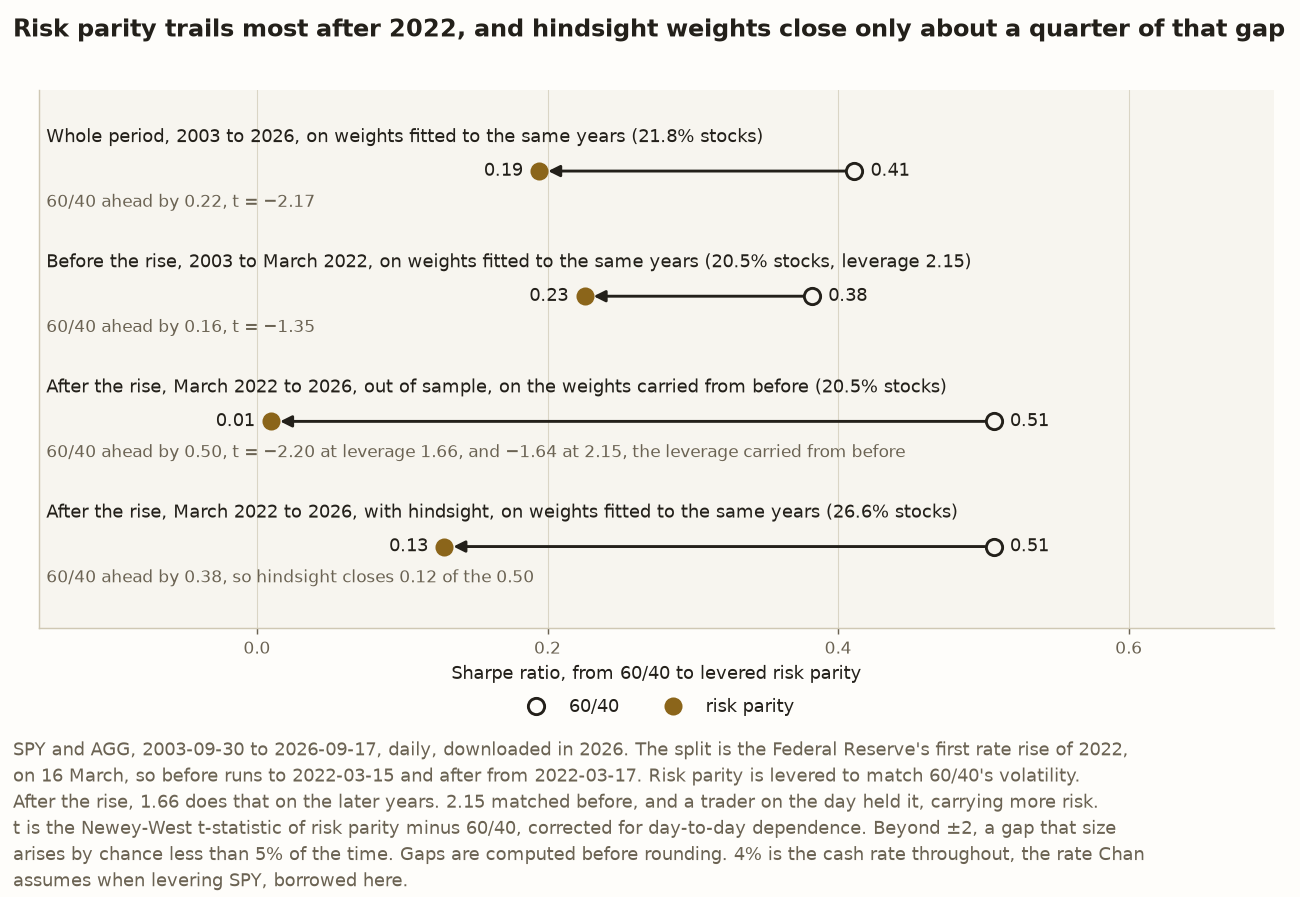
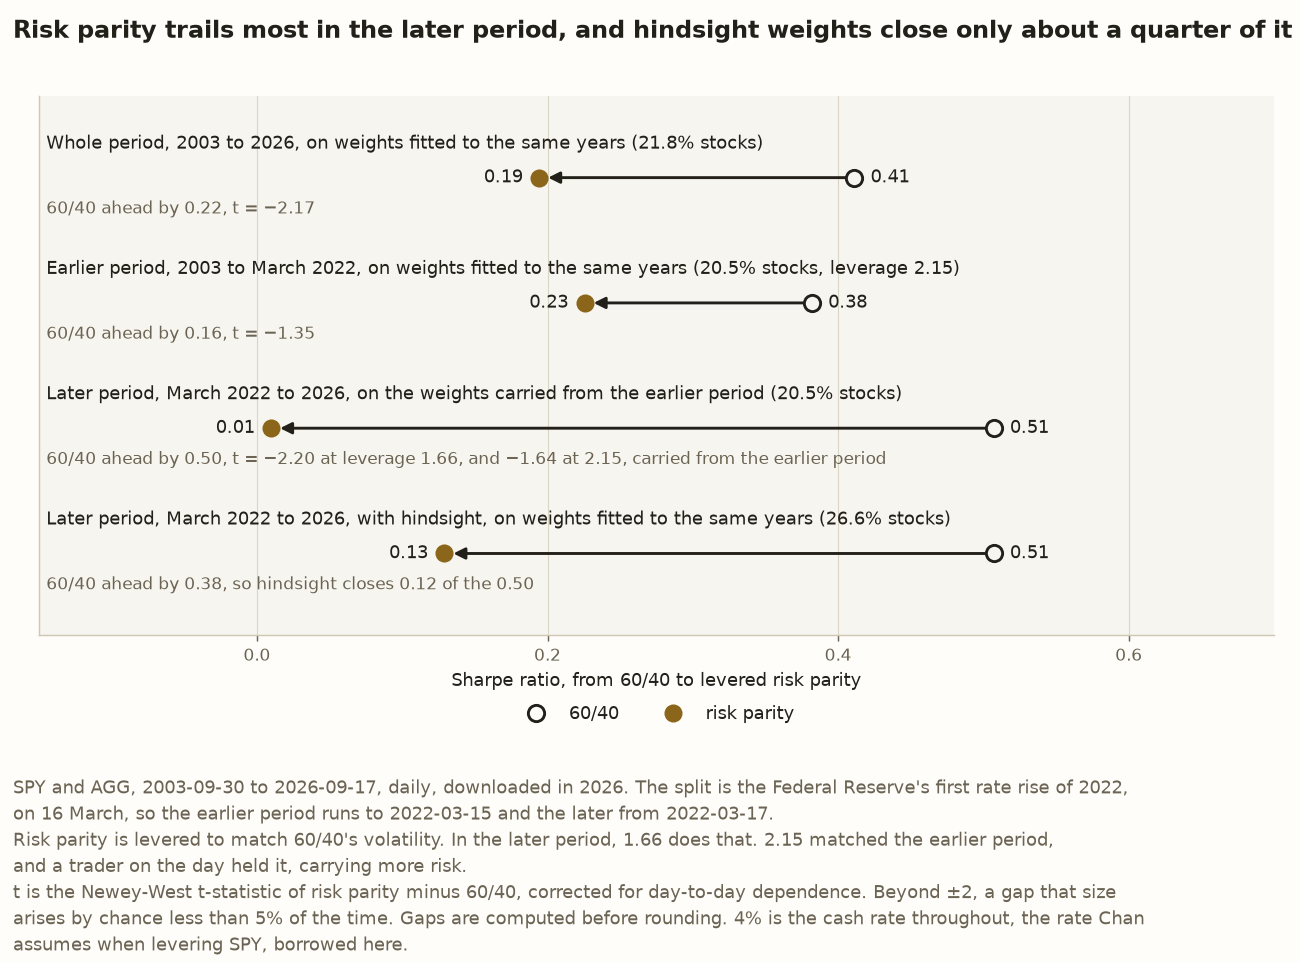
docs(blog): apply round 2 of the post loop
The accuracy review found nothing. The style review and a first-time
read found:

- Lesson 3's new sentence joined two facts with "and" where one causes
  the other, and called the shared term large at a correlation where it
  is zero. It now says why equal own terms make the shared term count
  for most, and names the volatility ratio rather than Qian's weights.
- "Out of sample" was glossed where the house style drops jargon. The
  post and the Lesson 5 figure now say what happens: the later period
  tests weights that never saw its years.
- Lesson 5 now says the one way volatility-only weights can gain from
  seeing the test years, through the stock-bond split, and that the
  tilt can run either way.
- The Lesson 5 figure's rows, title and note now use earlier and later
  period, as the text promises right above it. Lesson 3 points to Lesson
  5 for why the split falls on 16 March.
- Three phrasings still missed the naming convention, and Lesson 6 ended
  on four stacked negatives. Both are fixed, and the -0.96 conclusion
  moves to the paragraph it belongs to.

diff --git a/tests/test_risk_parity_figures.py b/tests/test_risk_parity_figures.py
@@ -1498,8 +1498,8 @@ class TestWhatTheWindowFigureCompares:
         the 0.50, which is 24% and rounds to a quarter."""
         drawn = window_figure.comparison
         assert window_figure._suptitle.get_text() == (
-            "Risk parity trails most after 2022, and hindsight weights close only "
-            "about a quarter of that gap"
+            "Risk parity trails most in the later period, and hindsight weights close only "
+            "about a quarter of it"
         )
         whole, before, carried, hindsight = drawn.rows
         assert carried.gap < hindsight.gap < min(whole.gap, before.gap)
@@ -1549,15 +1549,16 @@ class TestTheWindowPanel:
     def test_the_row_labels_name_the_weights(self, window_figure) -> None:
         assert [row.label for row in window_figure.comparison.rows] == [
             "Whole period, 2003 to 2026, on weights fitted to the same years (21.8% stocks)",
-            "Before the rise, 2003 to March 2022, on weights fitted to the same years "
+            "Earlier period, 2003 to March 2022, on weights fitted to the same years "
             "(20.5% stocks, leverage 2.15)",
-            "After the rise, March 2022 to 2026, out of sample, on the weights carried from "
-            "before (20.5% stocks)",
-            "After the rise, March 2022 to 2026, with hindsight, on weights fitted to the same "
+            "Later period, March 2022 to 2026, on the weights carried from the earlier period "
+            "(20.5% stocks)",
+            "Later period, March 2022 to 2026, with hindsight, on weights fitted to the same "
             "years (26.6% stocks)",
         ]
         # Three rows are fitted to the years they score, and they say so in the
-        # same words. Only the carried row is out of sample.
+        # same words. Only the carried row is scored on weights that never saw
+        # its years, and it says where they came from.
         labels = [row.label for row in window_figure.comparison.rows]
         assert ["fitted to the same years" in label for label in labels] == [
             True,
@@ -1565,7 +1566,12 @@ class TestTheWindowPanel:
             False,
             True,
         ]
-        assert ["out of sample" in label for label in labels] == [False, False, True, False]
+        assert ["carried from the earlier period" in label for label in labels] == [
+            False,
+            False,
+            True,
+            False,
+        ]
 
     def test_each_row_states_its_leader_gap_and_t(self, window_figure) -> None:
         ax = window_figure.axes[0]
@@ -1573,8 +1579,8 @@ class TestTheWindowPanel:
         assert [t.get_text() for t in gaps] == [
             "60/40 ahead by 0.22, t = −2.17",
             "60/40 ahead by 0.16, t = −1.35",
-            "60/40 ahead by 0.50, t = −2.20 at leverage 1.66, and −1.64 at 2.15, the leverage "
-            "carried from before",
+            "60/40 ahead by 0.50, t = −2.20 at leverage 1.66, and −1.64 at 2.15, carried from the "
+            "earlier period",
             "60/40 ahead by 0.38, so hindsight closes 0.12 of the 0.50",
         ]
         for y, text in zip(_rows_top_to_bottom(window_figure), gaps, strict=True):
@@ -1666,10 +1672,10 @@ class TestTheWindowFiguresText:
         assert window_figure.texts[-1].get_text().split("\n") == [
             "SPY and AGG, 2003-09-30 to 2026-09-17, daily, downloaded in 2026. The split is the "
             "Federal Reserve's first rate rise of 2022,",
-            "on 16 March, so before runs to 2022-03-15 and after from 2022-03-17. Risk parity is "
-            "levered to match 60/40's volatility.",
-            "After the rise, 1.66 does that on the later years. 2.15 matched before, and a trader "
-            "on the day held it, carrying more risk.",
+            "on 16 March, so the earlier period runs to 2022-03-15 and the later from 2022-03-17.",
+            "Risk parity is levered to match 60/40's volatility. In the later period, 1.66 does "
+            "that. 2.15 matched the earlier period,",
+            "and a trader on the day held it, carrying more risk.",
             "t is the Newey-West t-statistic of risk parity minus 60/40, corrected for day-to-day "
             "dependence. Beyond ±2, a gap that size",
             "arises by chance less than 5% of the time. Gaps are computed before rounding. 4% is "

diff --git a/src/chan/risk_parity_figures.py b/src/chan/risk_parity_figures.py
@@ -1184,14 +1184,14 @@ def window_comparison(
             rankings["full span"],
         ),
         ranked(
-            "Before the rise, 2003 to March 2022, on weights fitted to the same years "
+            "Earlier period, 2003 to March 2022, on weights fitted to the same years "
             f"({stocks(before.parity.stock_weight)}, leverage {earlier.leverage:.2f})",
             before.parity.stock_weight,
             earlier,
         ),
         ranked(
-            "After the rise, March 2022 to 2026, out of sample, on the weights carried from "
-            f"before ({stocks(carried[0])})",
+            "Later period, March 2022 to 2026, on the weights carried from the earlier period "
+            f"({stocks(carried[0])})",
             carried[0],
             rankings["rising rates"],
             extra=(
@@ -1202,7 +1202,7 @@ def window_comparison(
             ),
         ),
         WindowRow(
-            "After the rise, March 2022 to 2026, with hindsight, on weights fitted to the same "
+            "Later period, March 2022 to 2026, with hindsight, on weights fitted to the same "
             f"years ({stocks(own[0])})",
             own[0],
             refitted.sharpe_benchmark,
@@ -1241,7 +1241,7 @@ def window_row_text(drawn: WindowComparison, row: WindowRow) -> str:
         (own_leverage, own_t), (held, held_t) = row.tests
         text += (
             f", t = {_signed(own_t)} at leverage {own_leverage:.2f}, "
-            f"and {_signed(held_t)} at {held:.2f}, the leverage carried from before"
+            f"and {_signed(held_t)} at {held:.2f}, carried from the earlier period"
         )
     if row is drawn.hindsight:
         text += f", so hindsight closes {drawn.closed:.2f} of the {abs(drawn.carried.gap):.2f}"
@@ -1261,7 +1261,7 @@ def make_window_figure(
     """The Sharpe ratios on each side of March 2022, on carried and on hindsight weights."""
     drawn = window_comparison(measured)
 
-    fig = Figure(figsize=(10, 6.9), dpi=130)
+    fig = Figure(figsize=(10, 7.4), dpi=130)
     fig.patch.set_facecolor(SURFACE)
     ax = fig.subplots()
     _style(ax)
@@ -1326,22 +1326,22 @@ def make_window_figure(
     held_leverage, _ = drawn.carried.tests[1]
     _title(
         fig,
-        "Risk parity trails most after 2022, and hindsight weights close only "
-        f"about {quarter_words(drawn.closed_share)} of that gap",
+        "Risk parity trails most in the later period, and hindsight weights close only "
+        f"about {quarter_words(drawn.closed_share)} of it",
         f"{STOCK} and {BOND}, {drawn.start} to {drawn.end}, daily, downloaded in 2026. The split "
-        "is the Federal Reserve's first rate rise of 2022,\non 16 March, so before runs to "
-        f"{drawn.before_end} and after from {drawn.after_start}. Risk parity is levered to match "
-        "60/40's volatility.\n"
-        f"After the rise, {carried_leverage:.2f} does that on the later years. "
-        f"{held_leverage:.2f} matched before, and a trader on the day held it, carrying more "
-        "risk.\n"
+        "is the Federal Reserve's first rate rise of 2022,\non 16 March, so the earlier period "
+        f"runs to {drawn.before_end} and the later from {drawn.after_start}.\n"
+        "Risk parity is levered to match 60/40's volatility. "
+        f"In the later period, {carried_leverage:.2f} does that. "
+        f"{held_leverage:.2f} matched the earlier period,\nand a trader on the day held it, "
+        "carrying more risk.\n"
         "t is the Newey-West t-statistic of risk parity minus 60/40, corrected for day-to-day "
         f"dependence. Beyond ±{T_BAR:g}, a gap that size\narises by chance less than 5% of the "
         "time. Gaps are computed before rounding. "
         f"{RISK_FREE:.0%} is the cash rate throughout, the rate Chan\nassumes when levering SPY, "
         "borrowed here.",
     )
-    fig.subplots_adjust(left=0.03, right=0.98, top=0.9, bottom=0.3)
+    fig.subplots_adjust(left=0.03, right=0.98, top=0.9, bottom=0.34)
     fig.comparison = drawn
     return _save(fig, out, WINDOW_FIGURE)
 

diff --git a/blog/risk-parity-against-60-40.md b/blog/risk-parity-against-60-40.md
@@ -105,9 +105,9 @@ At a correlation near zero that is the sum divided by √2. For 60/40, each weig
 
 ## Lesson 3: Qian’s weights and leverage are really a volatility ratio and a correlation
 
-Risk parity sets `w₁σ₁ = w₂σ₂`, so Qian’s 23-77 says his stocks were 77 / 23, or 3.3 times as volatile as his bonds. Two significant figures is all he printed. Any weights that round to 23 and 77 put the ratio between 3.26 and 3.44. Dividing the two volatilities in his paper gives about 3.3, and their own rounding allows 3.24 to 3.33, which overlaps that band. On SPY and AGG the ratio is 3.59. Split at the Federal Reserve’s first rate rise of 2022, on 16 March, it is 3.87 before and 2.76 after, one on each side of his band, which Lesson 6 takes up. So the miss of about a point on the weight is the visible sign that SPY and AGG’s volatility ratio falls outside anything his rounded weights allow.
+Risk parity sets `w₁σ₁ = w₂σ₂`, so Qian’s 23-77 says his stocks were 77 / 23, or 3.3 times as volatile as his bonds. Two significant figures is all he printed. Any weights that round to 23 and 77 put the ratio between 3.26 and 3.44. Dividing the two volatilities in his paper gives about 3.3, and their own rounding allows 3.24 to 3.33, which overlaps that band. On SPY and AGG the ratio is 3.59. Split at the Federal Reserve’s first rate rise of 2022, on 16 March, a date Lesson 5 explains and fixes in advance, it is 3.87 before and 2.76 after, one on each side of his band, which Lesson 6 takes up. So the miss of about a point on the weight is the visible sign that SPY and AGG’s volatility ratio falls outside anything his rounded weights allow.
 
-The leverage carries a second hidden input. Once the weights fix the volatility ratio, the leverage that matches 60/40 depends only on the correlation. A higher correlation raises risk parity’s variance by a larger fraction than 60/40’s, because risk parity’s two own terms are equal and the shared term is large beside them, while 60/40’s stock term dwarfs everything else. On Qian’s weights, moving the correlation from 0 to 0.2 raises risk parity’s variance by 20% and 60/40’s by about 8%, so the leverage that matches 60/40 falls from about 1.88 to about 1.78. At the volatility ratio his weights imply, 77 / 23, his 1.8 corresponds to a correlation of 0.16, and his paper prints 0.2. That correspondence is loose, though. Letting both his weights and his leverage vary within their rounding puts the correlation anywhere from −0.01 to +0.37, wide enough to include both zero and a clearly positive correlation.
+The leverage carries a second hidden input. Once the weights fix the volatility ratio, the leverage that matches 60/40 depends only on the correlation. A higher correlation raises risk parity’s variance by a larger fraction than 60/40’s. The shared term counts for the most beside the two own terms when those terms are equal, as risk parity makes them. In 60/40 the stock term dwarfs everything else. At the volatility ratio Qian’s weights imply, moving the correlation from 0 to 0.2 raises risk parity’s variance by 20% and 60/40’s by about 8%, so the leverage that matches 60/40 falls from about 1.88 to about 1.78. At that ratio, 77 / 23, his 1.8 corresponds to a correlation of 0.16, and his paper prints 0.2. That correspondence is loose, though. Letting both his weights and his leverage vary within their rounding puts the correlation anywhere from −0.01 to +0.37, wide enough to include both zero and a clearly positive correlation.
 
 ![Two panels. The left one shows stocks’ volatility as a multiple of bonds’. Weights that round to 23 and 77 allow 3.26 to 3.44. Qian’s paper gives about 3.3, a range of 3.24 to 3.33 once its rounding is allowed for, which overlaps that band. SPY and AGG give 3.59 from 2003 to 2026, 3.87 up to March 2022 and 2.76 after, all outside both. The right one shows the leverage that matches 60/40 at each stock-bond correlation. On Qian’s weights, 1.8 corresponds to a correlation of 0.16, and his paper prints 0.2. Faint curves for the two ends of his weights’ rounding cross the ends of 1.8’s rounding at −0.01 and +0.37, the range of correlations his figures allow. On SPY and AGG’s weights, 1.98 corresponds to their measured −0.0002.](../docs/figures/risk_parity_ratio_and_correlation.png)
 
@@ -133,9 +133,9 @@ Whether Treasury bills averaged above or below 1.50% from 2003 to 2026 decides w
 
 60/40’s weights are fixed in advance and use no data. Risk parity computes its weights from measured volatilities. Weights fitted to the same years used to score them have already seen every day of the test, which can favour risk parity in a way 60/40 never benefits from.
 
-So the replication splits the period at 16 March 2022, the day the Federal Reserve made the first of its 2022 run of rate rises. It fixed the date before computing any result, and took it from an outside event rather than from the prices. The earlier period runs from 2003 to the day before the rise, and the later period from the day after it to 2026. The rest of the post calls them that. Weights for the later period come from the earlier period’s data, so they are the weights a trader would have held on the day, and the later period is a test out of sample: on data the weights never saw. The whole period and the earlier period have no prior data to borrow from, so the replication scores them with weights fitted to those same years. Only the later period’s weights are free of that possible advantage. Risk parity’s weights use volatilities rather than returns, so fitting them on the scored years does not guarantee risk parity that advantage.
+So the replication splits the period at 16 March 2022, the day the Federal Reserve made the first of its 2022 run of rate rises. It fixed the date before computing any result, and took it from an outside event rather than from the prices. The earlier period runs from 2003 to the day before the rise, and the later period from the day after it to 2026. The rest of the post calls them that. Weights for the later period come from the earlier period’s data, so they are the weights a trader would have held on the day, and the later period tests them on data they never saw. The whole period and the earlier period have no prior data to borrow from, so the replication scores them with weights fitted to those same years. Only the later period’s weights are free of that possible advantage. Risk parity’s weights use volatilities rather than returns, so fitting them to the scored years does not guarantee risk parity that advantage. Leverage leaves a Sharpe ratio alone, so fitted weights can gain only through the split between stocks and bonds, when the measured volatilities happen to tilt it toward the fund that went on to do better. They can as easily tilt it the other way.
 
-![Four rows of Sharpe ratios at an assumed 4% cash rate, each an arrow from 60/40 to levered risk parity. Over the whole period, on weights fitted to the same years with 21.8% in stocks, 60/40 earns 0.41 and risk parity 0.19, a gap of 0.22 with a t-statistic of −2.17. In the earlier period, on weights fitted to the same years with 20.5% in stocks and leverage of 2.15, 60/40 earns 0.38 and risk parity 0.23, a gap of 0.16 with a t-statistic of −1.35, short of the bar of 2. In the later period, out of sample on the 20.5% weights carried from the earlier period, 60/40 earns 0.51 and risk parity 0.01, a gap of 0.50, with a t-statistic of −2.20 at leverage 1.66 and −1.64 at the carried 2.15. With hindsight, on weights fitted to the later period with 26.6% in stocks, risk parity earns 0.13 against 60/40’s 0.51, a gap of 0.38, so hindsight closes 0.12 of the 0.50, about a quarter.](../docs/figures/risk_parity_by_window.png)
+![Four rows of Sharpe ratios at an assumed 4% cash rate, each an arrow from 60/40 to levered risk parity. Over the whole period, on weights fitted to the same years with 21.8% in stocks, 60/40 earns 0.41 and risk parity 0.19, a gap of 0.22 with a t-statistic of −2.17. In the earlier period, on weights fitted to the same years with 20.5% in stocks and leverage of 2.15, 60/40 earns 0.38 and risk parity 0.23, a gap of 0.16 with a t-statistic of −1.35, short of the bar of 2. In the later period, on the 20.5% weights carried from the earlier period, which never saw these years, 60/40 earns 0.51 and risk parity 0.01, a gap of 0.50, with a t-statistic of −2.20 at leverage 1.66 and −1.64 at the carried 2.15. With hindsight, on weights fitted to the later period with 26.6% in stocks, risk parity earns 0.13 against 60/40’s 0.51, a gap of 0.38, so hindsight closes 0.12 of the 0.50, about a quarter.](../docs/figures/risk_parity_by_window.png)
 
 *In the later period risk parity trails by 0.50 on the weights a trader held, and weights fitted to the later period with hindsight narrow that only to 0.38. The t-statistic clears the bar of 2 at the 1.66 leverage measured on the later period and falls short at the 2.15 a trader held.*
 
@@ -156,11 +156,11 @@ Each period, measured on its own data:
 
 The volatility ratio fell from 3.87 to 2.76, and the two periods sit on opposite sides of the 3.26 to 3.44 band Qian’s weights allow. The near-zero correlation of −0.0002 over the whole period is a blend of a negative stretch in the earlier period and a positive one in the later period, rather than a stable property of stocks and bonds. The falling volatility ratio moved the weights, and together with the rising correlation it moved the leverage.
 
-Even weights fitted to the later period hold only 26.6% stocks, short of 60/40’s 60%, so risk parity still leans on bonds, and its result rests on what AGG earned. AGG averaged 1.16% a year, a Sharpe ratio of about −0.46 against SPY’s 0.66, or about −0.69 times stocks’. On those weights, at the later period’s correlation of +0.24, the hurdle was about 0.70, so AGG fell far short. A lower correlation lowers the hurdle, and at correlations below about −0.62 it turns negative, meaning risk parity could lead even with a bond Sharpe ratio a little below zero. That happens because risk parity’s volatility shrinks faster than 60/40’s as the two funds’ swings cancel. The hurdle reaches AGG’s −0.69 only at a correlation below about −0.96, where stocks and bonds move almost exactly opposite each other.
+Even weights fitted to the later period hold only 26.6% stocks, short of 60/40’s 60%, so risk parity still leans on bonds, and its result rests on what AGG earned. AGG averaged 1.16% a year, a Sharpe ratio of about −0.46 against SPY’s 0.66, or about −0.69 times stocks’. On those weights, at the later period’s correlation of +0.24, the hurdle was about 0.70, so AGG fell far short. A lower correlation lowers the hurdle, and at correlations below about −0.62 it turns negative, meaning risk parity could lead even with a bond Sharpe ratio a little below zero. That happens because risk parity’s volatility shrinks faster than 60/40’s as the two funds’ swings cancel. The hurdle reaches AGG’s −0.69 only at a correlation below about −0.96, where stocks and bonds move almost exactly opposite each other. None of the correlations measured here comes near that.
 
-The portfolio actually scored kept the earlier 20.5% stocks, and its hurdle was higher still, about 0.78 at +0.24. At no correlation does it fall below about −0.37 times stocks’ Sharpe ratio, so on those weights no correlation would have closed the gap. None of the measured correlations comes near −0.96 either, so on neither set of weights would any of them have put risk parity ahead in the later period.
+The portfolio actually scored kept the earlier 20.5% stocks, and its hurdle was higher still, about 0.78 at +0.24. It stays above about −0.37 times stocks’ Sharpe ratio at every correlation, so on those weights no correlation at all would have closed the gap.
 
-![The hurdle bonds’ Sharpe ratio had to clear in the later period, after the March 2022 rise, as a multiple of stocks’, against the stock-bond correlation from −1 to +0.5. Only the correlation varies, with the later period’s volatilities held fixed. On weights fitted to the later period with hindsight, the hurdle is 0.70 at the measured +0.24, turns negative at correlations below −0.62, and meets AGG’s −0.69 only at correlations below −0.96. On the 20.5% stock weights carried from before, which the post scores, it is 0.78 at +0.24 and never falls below −0.37 times stocks’ Sharpe ratio. The measured correlations, −0.07 in the earlier period, −0.0002 over the whole period and +0.24 in the later period, are marked.](../docs/figures/risk_parity_hurdle_by_correlation.png)
+![The hurdle bonds’ Sharpe ratio had to clear in the later period, after the March 2022 rise, as a multiple of stocks’, against the stock-bond correlation from −1 to +0.5. Only the correlation varies, with the later period’s volatilities held fixed. On weights fitted to the later period with hindsight, the hurdle is 0.70 at the measured +0.24, turns negative at correlations below −0.62, and meets AGG’s −0.69 only at correlations below −0.96. On the 20.5% stock weights carried from the earlier period, which the post scores, it is 0.78 at +0.24 and never falls below −0.37 times stocks’ Sharpe ratio. The measured correlations, −0.07 in the earlier period, −0.0002 over the whole period and +0.24 in the later period, are marked.](../docs/figures/risk_parity_hurdle_by_correlation.png)
 
 *AGG’s line stays far below both curves at every correlation these funds showed. At the 4% rate, on the weights actually carried into the later period, no correlation at all would have closed the gap. Read at the whole period’s −0.0002, the solid curve gives about 0.56, above Lesson 2’s 0.53, because it keeps the later period’s volatilities.*
 
@@ -179,7 +179,7 @@ Six habits follow from the lessons above.
 1. **Check the claim, not only the numbers.** An allocation about a point off and a leverage about 0.2 off can still carry a conclusion that fails.
 2. **Compare the Sharpe ratios inside a mix before levering it.** Leverage cannot raise a Sharpe ratio, so a low-risk mix beats a riskier one only if what it holds earns enough per unit of risk. At the near-zero correlation measured here, bonds needed a little over half of stocks’ Sharpe ratio, about 0.53 times.
 3. **Name the cash rate, and find the rate where the ranking flips.** Any comparison between a levered and an unlevered portfolio depends on the cash rate. Here the ranking over the whole period flips at 1.50%, and below an assumed 3.80% the data can no longer name 60/40 the winner.
-4. **Judge weights on data they did not see.** Weights computed from the data that judges them can start with an advantage over weights fixed beforehand. In the later period, weights fitted to it would have narrowed the gap from 0.50 to 0.38.
+4. **Judge weights on data they did not see.** Weights fitted to the data that judges them can start with an advantage over weights fixed beforehand. In the later period, weights fitted to it would have narrowed the gap from 0.50 to 0.38.
 5. **Report a ranking with its size and its t-statistic.** A statement that one Sharpe ratio beats another hides whether the gap is 0.01 or 0.50, and whether the data can tell the two portfolios apart.
 6. **Treat a published allocation as a snapshot.** Qian’s 23-77 and 1.8 encode one period’s volatility ratio and correlation, and both moved across the March 2022 rise. Re-estimate them before borrowing someone else’s weights.
 
